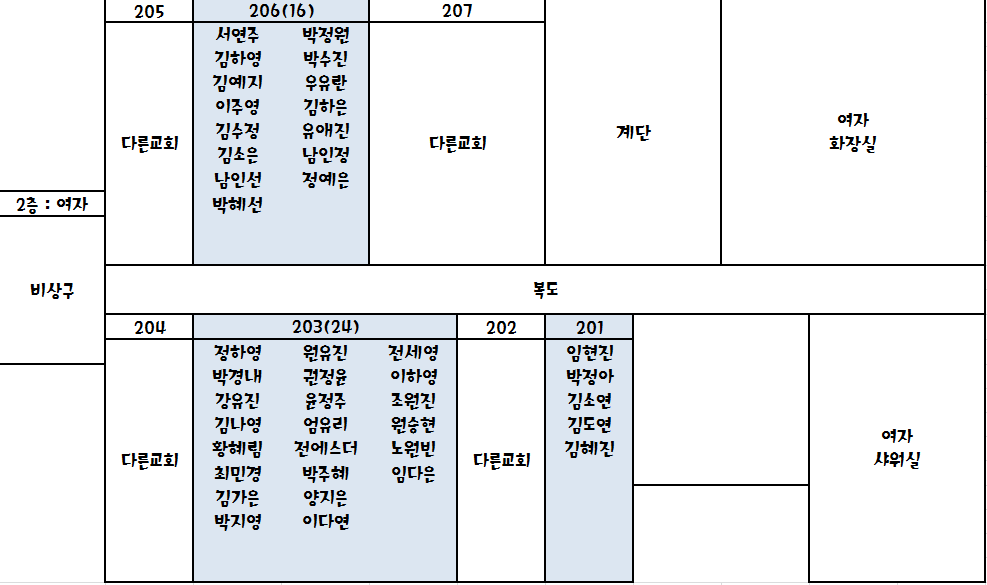
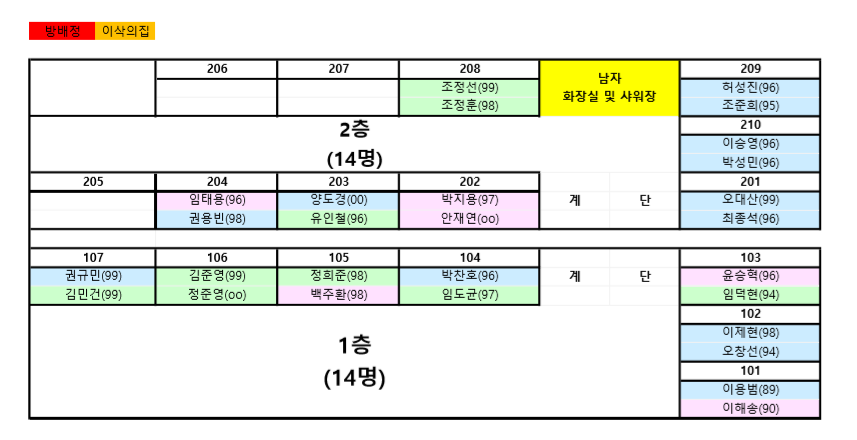
조 편성, 방 배정 삽입

diff --git a/setRoom.html b/setRoom.html
@@ -48,7 +48,7 @@
           <ul>
             <li><a href=index.html>Main</a></li>
             <li><a href=pray.html>기도카드</a></li>
-            <!-- <li class="is-active"><a>조편성 & 방배정</a></li> -->
+            <li class="is-active"><a>조편성 & 방배정</a></li>
           </ul>
         </div>
       </nav>
@@ -62,13 +62,16 @@
 
       <div class="cont_first">
         <img src="asets/house.png" style="margin-top: 2rem" alt="">
-        <h3>조편성</h3>
+        <h3>지도</h3>
+        <img src="asets/mainmap.jpg" style="width: 600px" alt="">
+
+      
         <img src="asets/RoomSet.png" style="width: 600px" alt="">
 
         <h3>방배정</h3>
-        <img src="asets/sleepLoom.png" style="width: 600px" alt="">
-        <img src="asets/sleepLoom2.png" style="width: 600px" alt="">
-        <img src="asets/sleepLoom3.png" style="width: 600px" alt="">
+        <img src="asets/sleepLoom.png" style="width: 650px" alt="">
+        <img src="asets/sleepLoom2.png" style="width: 650px" alt="">
+        <!-- <img src="asets/sleepLoom3.png" style="width: 600px" alt=""> -->
 
       </div>
 

diff --git a/index.html b/index.html
@@ -59,7 +59,7 @@
           <ul>
             <li class="is-active"><a href=index.html>Main</a></li>
             <li><a href="pray.html">기도카드</a></li>
-            <!-- <li><a href="setRoom.html">조편성 & 방배정</a></li> -->
+            <li><a href="setRoom.html">조편성 & 방배정</a></li>
           </ul>
         </div>
       </nav>
@@ -147,13 +147,6 @@
 
         <h3>수련회 신청</h3>
         <a class="button is-info is-rounded" href="https://forms.gle/gTLbxd1jRxB38V5N7">신청하기</a>
-
-        
-
-      
-
-        
-        
 
         <h3>사랑과 은혜교회 청년부</h3>
         <!-- <img src="asets/church.png" width="200px" height="200px" alt="" style="center"> -->

diff --git a/pray.html b/pray.html
@@ -48,7 +48,7 @@
           <ul>
             <li><a href=index.html>Main</a></li>
             <li class="is-active"><a>기도카드</a></li>
-            <!-- <li><a href="setRoom.html">조편성 & 방배정</a></li> -->
+            <li><a href="setRoom.html">조편성 & 방배정</a></li>
           </ul>
         </div>
       </nav>
